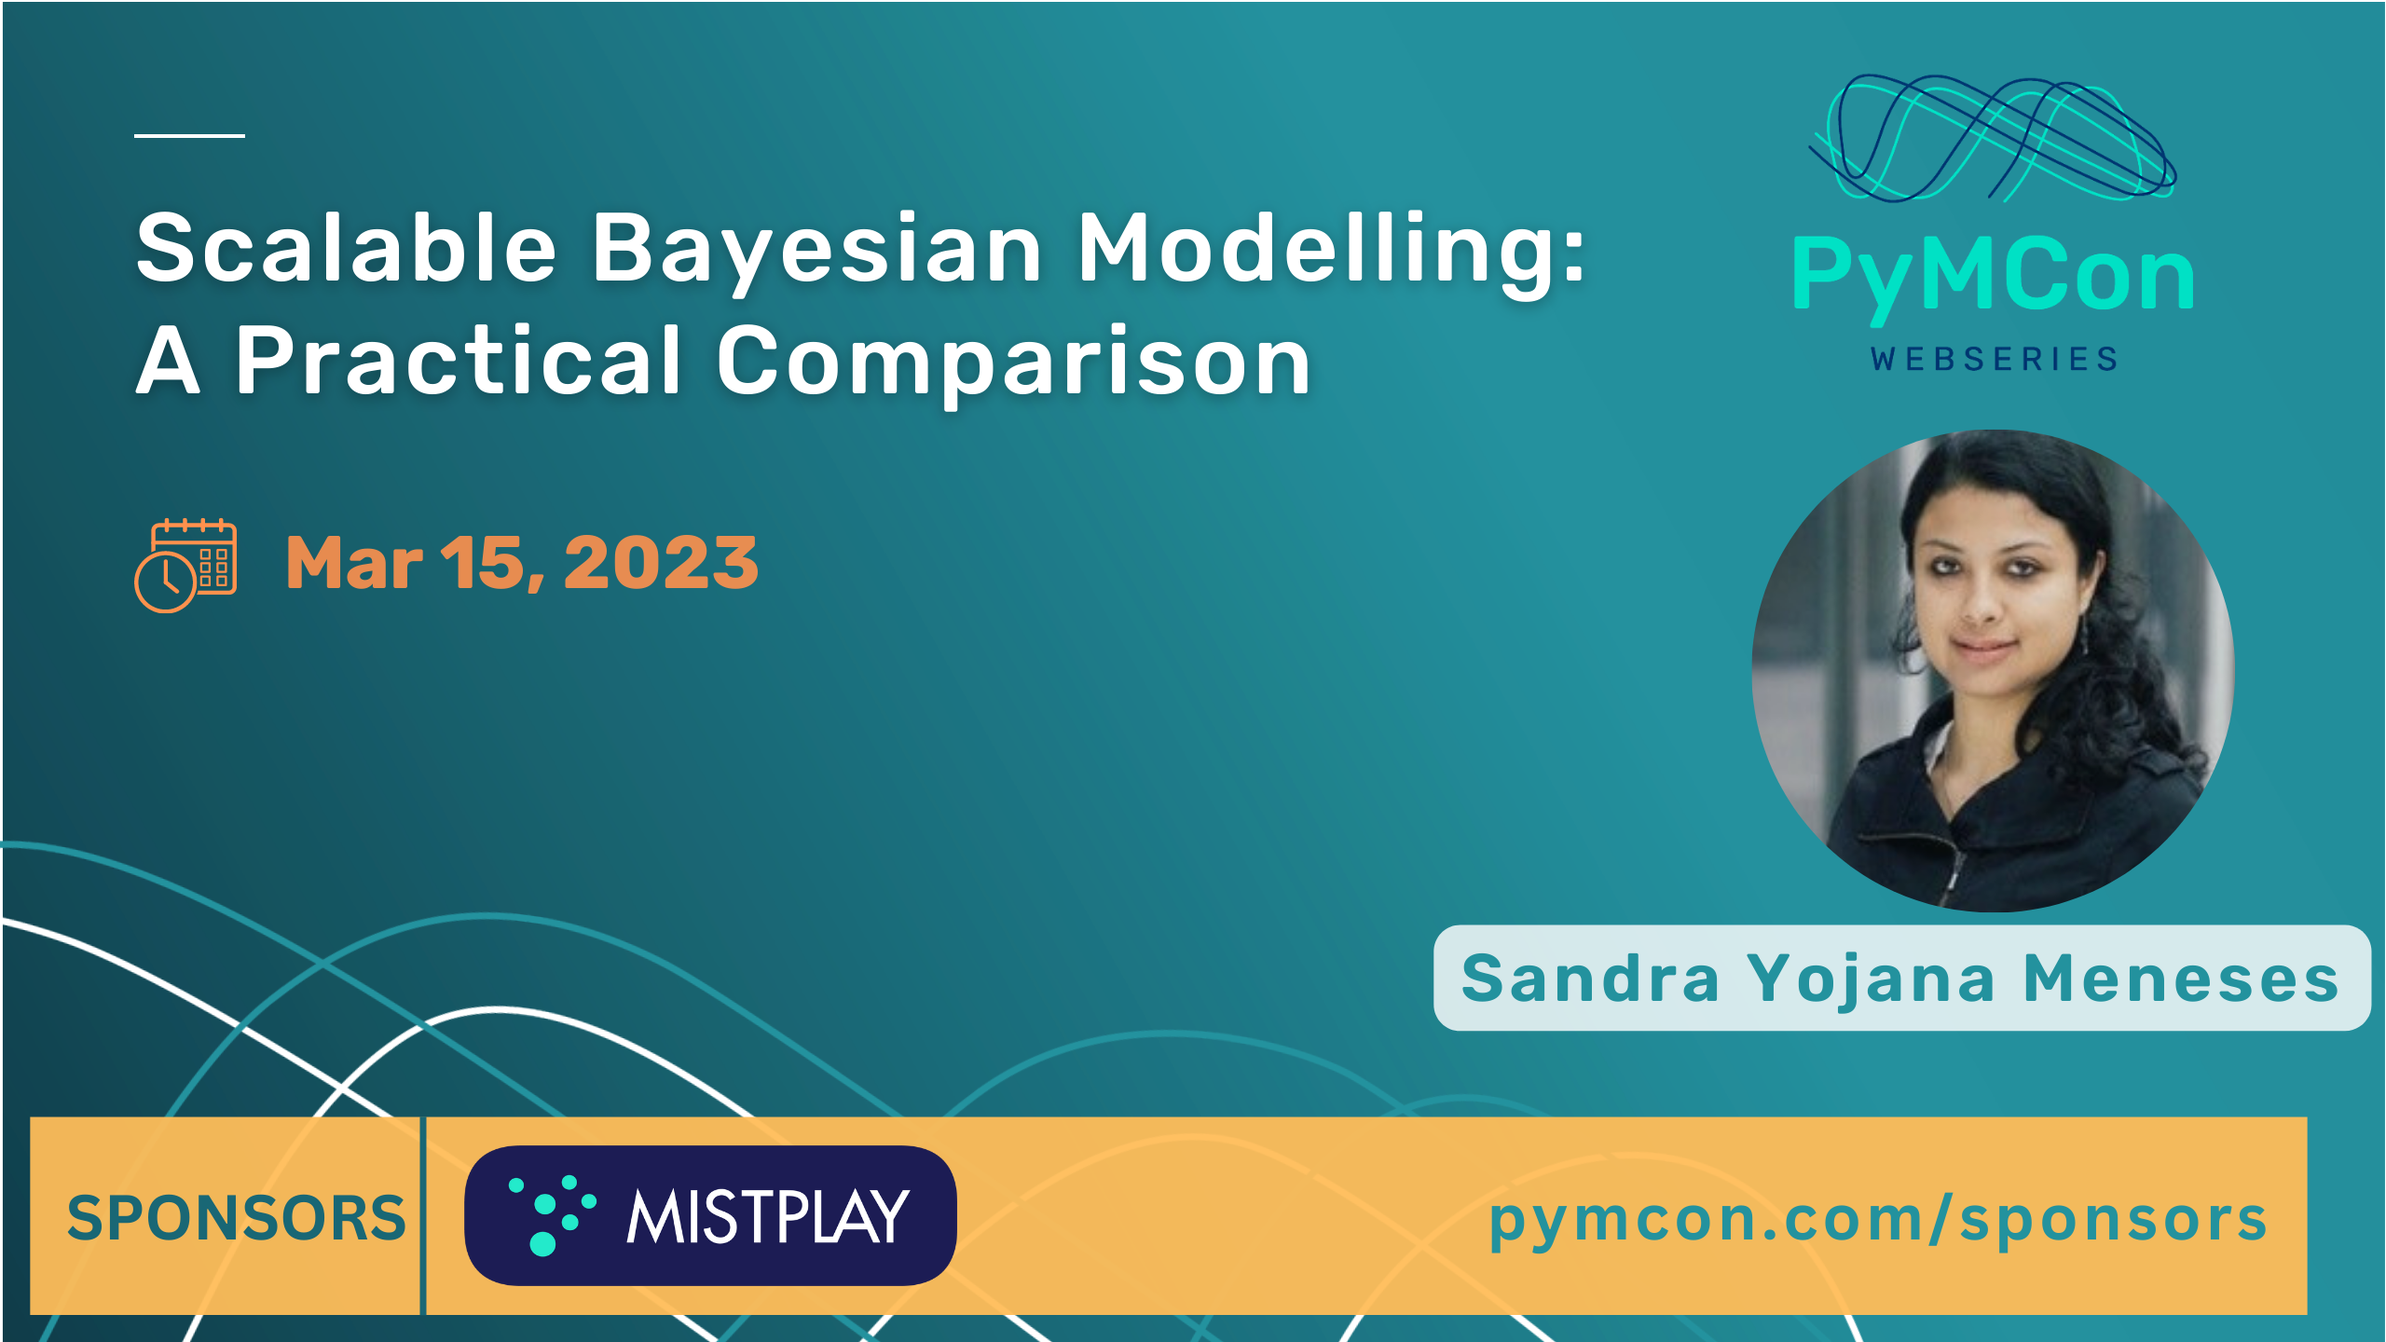
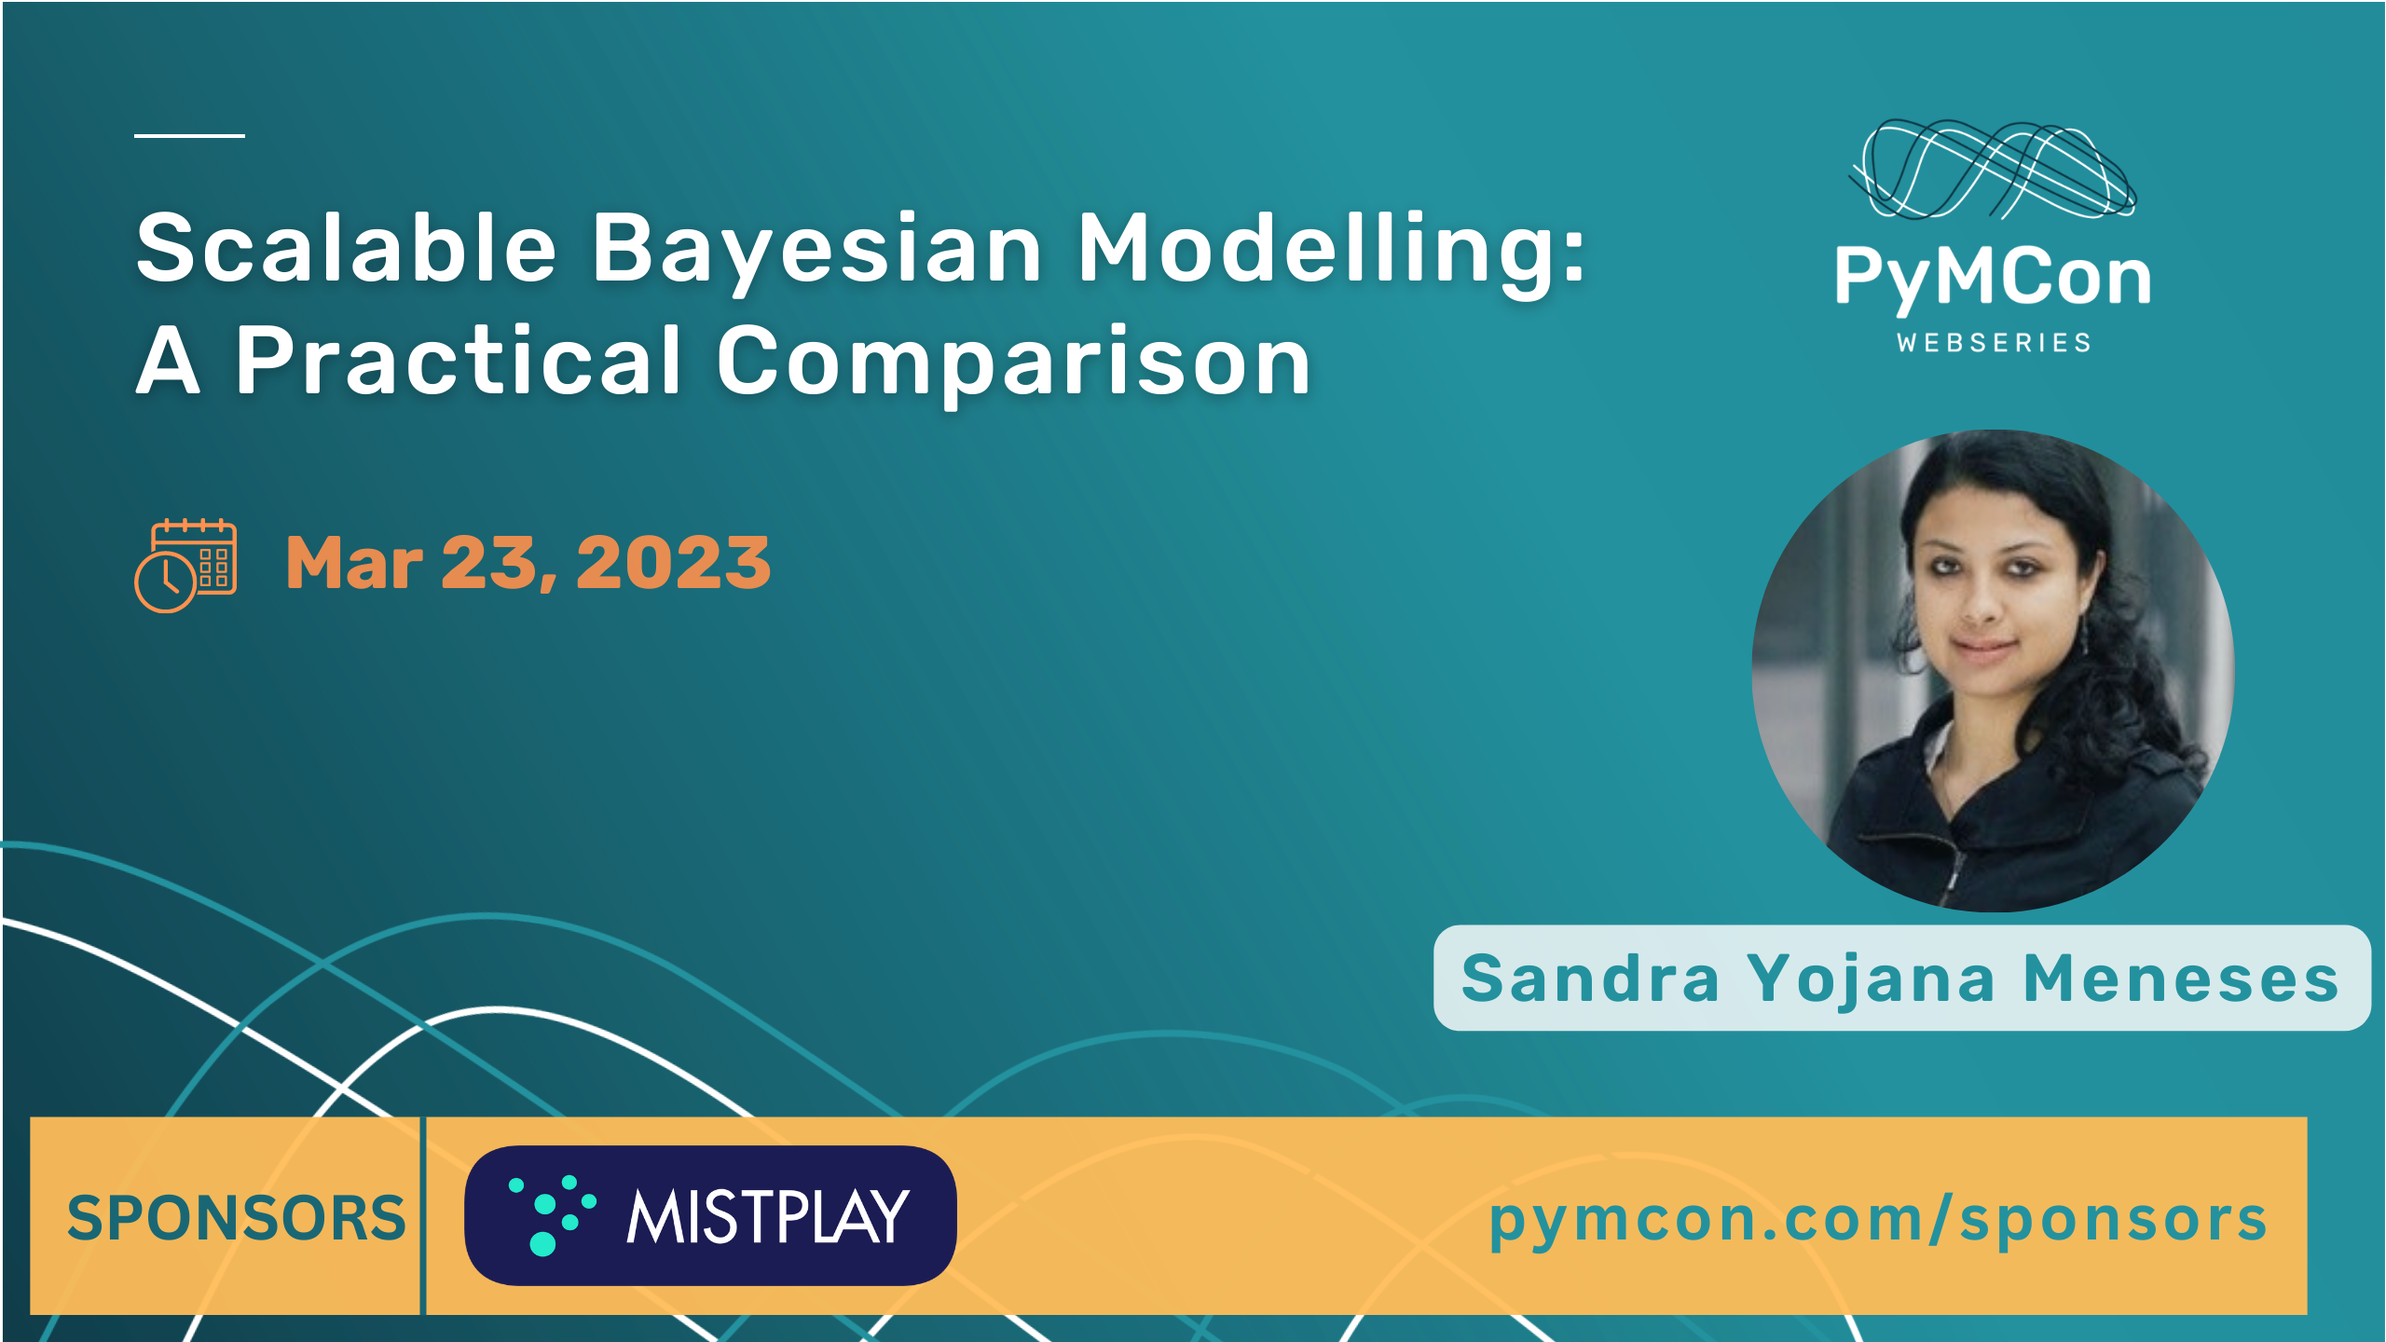
deploy: 17959591f691cfd7982e1db3e121c3cc665672e8

Changed region(s): [[0.75, 0.0625, 0.9375, 0.2812], [0.1875, 0.375, 0.3438, 0.4375]]

diff --git a/events/index.html b/events/index.html
@@ -3,10 +3,10 @@
 <link rel=apple-touch-icon sizes=180x180 href=../images/favicon/apple-touch-icon.png><link rel=icon type=image/png sizes=32x32 href=../images/favicon/favicon-32x32.png><link rel=icon type=image/png sizes=16x16 href=../images/favicon/favicon-16x16.png><link rel=manifest href=../images/favicon/site.webmanifest><meta property="og:title" content="PyMCon Events"><meta property="og:description" content="Join us to explore the cutting-edge development of PyMC, with talks from industry leaders and ample opportunity to connect with like-minded individuals. Don't miss out on this exciting event!"><meta property="og:type" content="article"><meta property="og:url" content="https://pymcon.com/events/"><meta property="og:image" content="https://pymcon.com/images/pymcon-logo-color.png"><meta property="article:section" content><meta property="og:site_name" content="PyMCon Web Series"><meta name=twitter:card content="summary_large_image"><meta name=twitter:image content="https://pymcon.com/images/pymcon-logo-color.png"><meta name=twitter:title content="PyMCon Events"><meta name=twitter:description content="Join us to explore the cutting-edge development of PyMC, with talks from industry leaders and ample opportunity to connect with like-minded individuals. Don't miss out on this exciting event!"><meta name=twitter:site content="@pymc_devs"><script type=application/ld+json>[{"@context":"https://schema.org","@type":"Article","articleSection":"PyMCon Web Series","name":"PyMCon Events","headline":"PyMCon Events","description":"Join us to explore the cutting-edge development of PyMC, with talks from industry leaders and ample opportunity to connect with like-minded individuals. Don\u0027t miss out on this exciting event!","inLanguage":"en-au","url":"https:\/\/pymcon.com\/events\/","author":{"@type":"Person","name":"PyMCon Team"},"mainEntityOfPage":"true","wordCount":"0"}]</script><meta name=author content="PyMCon Team"><link rel=stylesheet href=https://pymcon.com/css/main.css><link rel=stylesheet href=https://unicons.iconscout.com/release/v2.1.5/css/unicons.css><link rel=preconnect href=https://fonts.googleapis.com><link rel=preconnect href=https://fonts.gstatic.com crossorigin><link rel=stylesheet href='https://fonts.googleapis.com/css2?family=Montserrat:wght@300;400;500;600;700;800;900&display=swap'><link rel=stylesheet href=https://cdn.jsdelivr.net/npm/swiper@8/swiper-bundle.min.css><link rel=stylesheet href=https://cdnjs.cloudflare.com/ajax/libs/font-awesome/4.7.0/css/font-awesome.min.css><link rel=stylesheet href=../css/events.css><style>body{background-image:url(/images/bg-texture.png)}</style></head><body><div id=the-top><a href=#main-content class=skip_to_main><i class="uil uil-arrow-down"></i>
 Skip to main content
 <i class="uil uil-arrow-down"></i></a></div><header class="py-6 sm:py-10"><nav class=nav><div class="container nav__container"><div class=pymcon__logo><a href=../><img src=../images/pymcon-logo.png alt="PyMCon Logo"></a></div><ul class=nav__menu><li><a href=../about/>About</a></li><li><a href=../cfp/>CFP</a></li><li><a href=../events/>Events</a></li><li><a href=../organizers/>Organizers</a></li><li><a href=../faq/>FAQs</a></li><li><a href=../sponsors/>Sponsors</a></li><li><a href=../contact/>Contact</a></li><li><a href=../codeofconduct/>Code of Conduct</a></li></ul><button id=open-menu-btn aria-label="Open Menu"><i class="uil uil-bars"></i></button>
-<button id=close-menu-btn aria-label="Close Menu"><i class="uil uil-multiply"></i></button></div></nav></header><div id=main-content></div><header class=small__header><div class="container small__header__container"><div class=small__header__left><h1>PyMCon Events</h1><p>Join us to explore the cutting-edge development of PyMC, with talks from industry leaders and ample opportunity to connect with like-minded individuals. Don't miss out on this exciting event!</p></div><div class=small__header__right><div class=small__header__right-image><img src=../images/events.svg alt></div></div></div></header><section class="section events" id=pymcon_events><div class="container events__container"><div class=event__cards><h2 id=all_events>All Events</h2><h2 id=upcoming_events>Upcoming Events</h2><h2 id=past_events>Past Events</h2><article class="event__card upcoming"><div class=event__header><div class=event__wrapper><h4>Mar 5 2023</h4><h3>HSGPs in PyMC: A fast Gaussian process approximation that you can actually use</h3><span><i class="uil uil-map-marker"></i>Online</span></div><img src=../images/events/pymcon-bill-engels.png alt></div><div class=event__details><div class=event__summary><p>In this talk, Bill will introduce a PyMC Hilbert Space Gaussian Process (HSGP) implementation and show via case studies how it fills a few key gaps in the PyMC GP library: fast GPs as model subcomponents, and fast GPs with non-Gaussian likelihoods. I&rsquo;ll also cover tips and tricks for applying HSGPs effectively in practice.</p></div><button class=readmore__btn>
+<button id=close-menu-btn aria-label="Close Menu"><i class="uil uil-multiply"></i></button></div></nav></header><div id=main-content></div><header class=small__header><div class="container small__header__container"><div class=small__header__left><h1>PyMCon Events</h1><p>Join us to explore the cutting-edge development of PyMC, with talks from industry leaders and ample opportunity to connect with like-minded individuals. Don't miss out on this exciting event!</p></div><div class=small__header__right><div class=small__header__right-image><img src=../images/events.svg alt></div></div></div></header><section class="section events" id=pymcon_events><div class="container events__container"><div class=event__cards><h2 id=all_events>All Events</h2><h2 id=upcoming_events>Upcoming Events</h2><h2 id=past_events>Past Events</h2><article class="event__card upcoming"><div class=event__header><div class=event__wrapper><h4>Mar 15 2023</h4><h3>HSGPs in PyMC: A fast Gaussian process approximation that you can actually use</h3><span><i class="uil uil-map-marker"></i>Online</span></div><img src=../images/events/pymcon-bill-engels.png alt></div><div class=event__details><div class=event__summary><p>In this talk, Bill will introduce a PyMC Hilbert Space Gaussian Process (HSGP) implementation and show via case studies how it fills a few key gaps in the PyMC GP library: fast GPs as model subcomponents, and fast GPs with non-Gaussian likelihoods. I&rsquo;ll also cover tips and tricks for applying HSGPs effectively in practice.</p></div><button class=readmore__btn>
 <span class=readmore-txt>....read more</span>
 <span class=readless-txt>Read Less</span></button></div><div class=speaker__info><a href=https://www.linkedin.com/in/bill-engels-a5239a119/ target=_blank><img src=../images/speakers/bill-engels.jpg alt>
-<em>Bill Engels</em></a></div></article><article class="event__card upcoming"><div class=event__header><div class=event__wrapper><h4>Mar 15 2023</h4><h3>Scalable Bayesian Modelling: A practical comparison</h3><span><i class="uil uil-map-marker"></i>Online</span></div><img src=../images/events/pymcon-sandra-meneses.png alt></div><div class=event__details><div class=event__summary><p>Let&rsquo;s dig deep into the new options that PyMC has to boost its performance comparing it with other Probabilistic programming frameworks. You will see how to get adequate performance for use cases with large datasets in production.</p></div><button class=readmore__btn>
+<em>Bill Engels</em></a></div><a href=https://discourse.pymc.io/t/introduction-to-hilbert-space-gps-hsgp-in-pymc/11533 target=_blank class="btn event__btn">Learn More</a></article><article class="event__card upcoming"><div class=event__header><div class=event__wrapper><h4>Mar 23 2023</h4><h3>Scalable Bayesian Modelling: A practical comparison</h3><span><i class="uil uil-map-marker"></i>Online</span></div><img src=../images/events/pymcon-sandra-meneses.png alt></div><div class=event__details><div class=event__summary><p>Let&rsquo;s dig deep into the new options that PyMC has to boost its performance comparing it with other Probabilistic programming frameworks. You will see how to get adequate performance for use cases with large datasets in production.</p></div><button class=readmore__btn>
 <span class=readmore-txt>....read more</span>
 <span class=readless-txt>Read Less</span></button></div><div class=speaker__info><a href=https://www.linkedin.com/in/symeneses/ target=_blank><img src=../images/speakers/sandra_meneses.jpg alt>
 <em>Sandra Yojana Meneses</em></a></div></article><article class="event__card upcoming"><div class=event__header><div class=event__wrapper><h4>Apr 2 2023</h4><h3>The Bayesian Statistics Toolbox: Building a robust, replicable Bayesian workflow for the behavioral and neural sciences</h3><span><i class="uil uil-map-marker"></i>Online</span></div><img src=../images/events/pymcon-hyosub-kim.png alt></div><div class=event__details><div class=event__summary><p>Are you seriously interested in Bayesian statistics but find yourself relying on familiar frequentist tools when it comes time to present your data at a conference or in a manuscript? If this statement rings true, you are not alone, and this talk is for you! In this presentation, I will go over some new tools we’ve developed to help make running Bayesian versions of some of the most common statistical tests used in the behavioral and neural sciences intuitive and transparent.</p></div><button class=readmore__btn>

diff --git a/index.html b/index.html
@@ -6,10 +6,10 @@ Skip to main content
 <button id=close-menu-btn aria-label="Close Menu"><i class="uil uil-multiply"></i></button></div></nav></header><div id=main-content></div><header class=header><div class="container header__container"><div class=header__left><h1>PyMCon Web Series</h1><p>An Asynchronous-first virtual conference for the Bayesian community</p><p>We believe in building a community as much as we believe in building code. Come and join with us!</p><a href=https://pymcon.com/cfp/ class="btn btn-primary">Submit a Proposal</a></div><div class=header_right><div class=rocket><img src=./images/pymc-logo-350.png alt></div><div class=pulse><span style=--delay:1></span>
 <span style=--delay:2></span>
 <span style=--delay:3></span>
-<span style=--delay:4></span></div></div></div></header><section class="section events" id=featured_events><h2>PyMCon Events</h2><div class="container events__container"><div class="swiper eventCardSlider"><div class=swiper-wrapper><article class="event__card swiper-slide"><div class=event__header><img src=./images/events/pymcon-bill-engels.png alt><div class=event__wrapper><h4>Mar 5 2023</h4><h3>HSGPs in PyMC: A fast Gaussian process approximation that you can actually use</h3><span><i class="uil uil-map-marker"></i>Online</span></div></div><div class=event__details><div class=event__summary><p>In this talk, Bill will introduce a PyMC Hilbert Space Gaussian Process (HSGP) implementation and show via case studies how it fills a few key gaps in the PyMC GP library: fast GPs as model subcomponents, and fast GPs with non-Gaussian likelihoods. I&rsquo;ll also cover tips and tricks for applying HSGPs effectively in practice.</p></div><button class=readmore__btn>
+<span style=--delay:4></span></div></div></div></header><section class="section events" id=featured_events><h2>PyMCon Events</h2><div class="container events__container"><div class="swiper eventCardSlider"><div class=swiper-wrapper><article class="event__card swiper-slide"><div class=event__header><img src=./images/events/pymcon-bill-engels.png alt><div class=event__wrapper><h4>Mar 15 2023</h4><h3>HSGPs in PyMC: A fast Gaussian process approximation that you can actually use</h3><span><i class="uil uil-map-marker"></i>Online</span></div></div><div class=event__details><div class=event__summary><p>In this talk, Bill will introduce a PyMC Hilbert Space Gaussian Process (HSGP) implementation and show via case studies how it fills a few key gaps in the PyMC GP library: fast GPs as model subcomponents, and fast GPs with non-Gaussian likelihoods. I&rsquo;ll also cover tips and tricks for applying HSGPs effectively in practice.</p></div><button class=readmore__btn>
 <span class=readmore-txt>....read more</span>
 <span class=readless-txt>Read Less</span></button></div><div class=speaker__info><a href=https://www.linkedin.com/in/bill-engels-a5239a119/ target=_blank><img src=./images/speakers/bill-engels.jpg alt>
-<em>Bill Engels</em></a></div></article><article class="event__card swiper-slide"><div class=event__header><img src=./images/events/pymcon-sandra-meneses.png alt><div class=event__wrapper><h4>Mar 15 2023</h4><h3>Scalable Bayesian Modelling: A practical comparison</h3><span><i class="uil uil-map-marker"></i>Online</span></div></div><div class=event__details><div class=event__summary><p>Let&rsquo;s dig deep into the new options that PyMC has to boost its performance comparing it with other Probabilistic programming frameworks. You will see how to get adequate performance for use cases with large datasets in production.</p></div><button class=readmore__btn>
+<em>Bill Engels</em></a></div><a href=https://discourse.pymc.io/t/introduction-to-hilbert-space-gps-hsgp-in-pymc/11533 target=_blank class="btn event__btn">Learn More</a></article><article class="event__card swiper-slide"><div class=event__header><img src=./images/events/pymcon-sandra-meneses.png alt><div class=event__wrapper><h4>Mar 23 2023</h4><h3>Scalable Bayesian Modelling: A practical comparison</h3><span><i class="uil uil-map-marker"></i>Online</span></div></div><div class=event__details><div class=event__summary><p>Let&rsquo;s dig deep into the new options that PyMC has to boost its performance comparing it with other Probabilistic programming frameworks. You will see how to get adequate performance for use cases with large datasets in production.</p></div><button class=readmore__btn>
 <span class=readmore-txt>....read more</span>
 <span class=readless-txt>Read Less</span></button></div><div class=speaker__info><a href=https://www.linkedin.com/in/symeneses/ target=_blank><img src=./images/speakers/sandra_meneses.jpg alt>
 <em>Sandra Yojana Meneses</em></a></div></article><article class="event__card swiper-slide"><div class=event__header><img src=./images/events/pymcon-hyosub-kim.png alt><div class=event__wrapper><h4>Apr 2 2023</h4><h3>The Bayesian Statistics Toolbox: Building a robust, replicable Bayesian workflow for the behavioral and neural sciences</h3><span><i class="uil uil-map-marker"></i>Online</span></div></div><div class=event__details><div class=event__summary><p>Are you seriously interested in Bayesian statistics but find yourself relying on familiar frequentist tools when it comes time to present your data at a conference or in a manuscript? If this statement rings true, you are not alone, and this talk is for you! In this presentation, I will go over some new tools we’ve developed to help make running Bayesian versions of some of the most common statistical tests used in the behavioral and neural sciences intuitive and transparent.</p></div><button class=readmore__btn>
